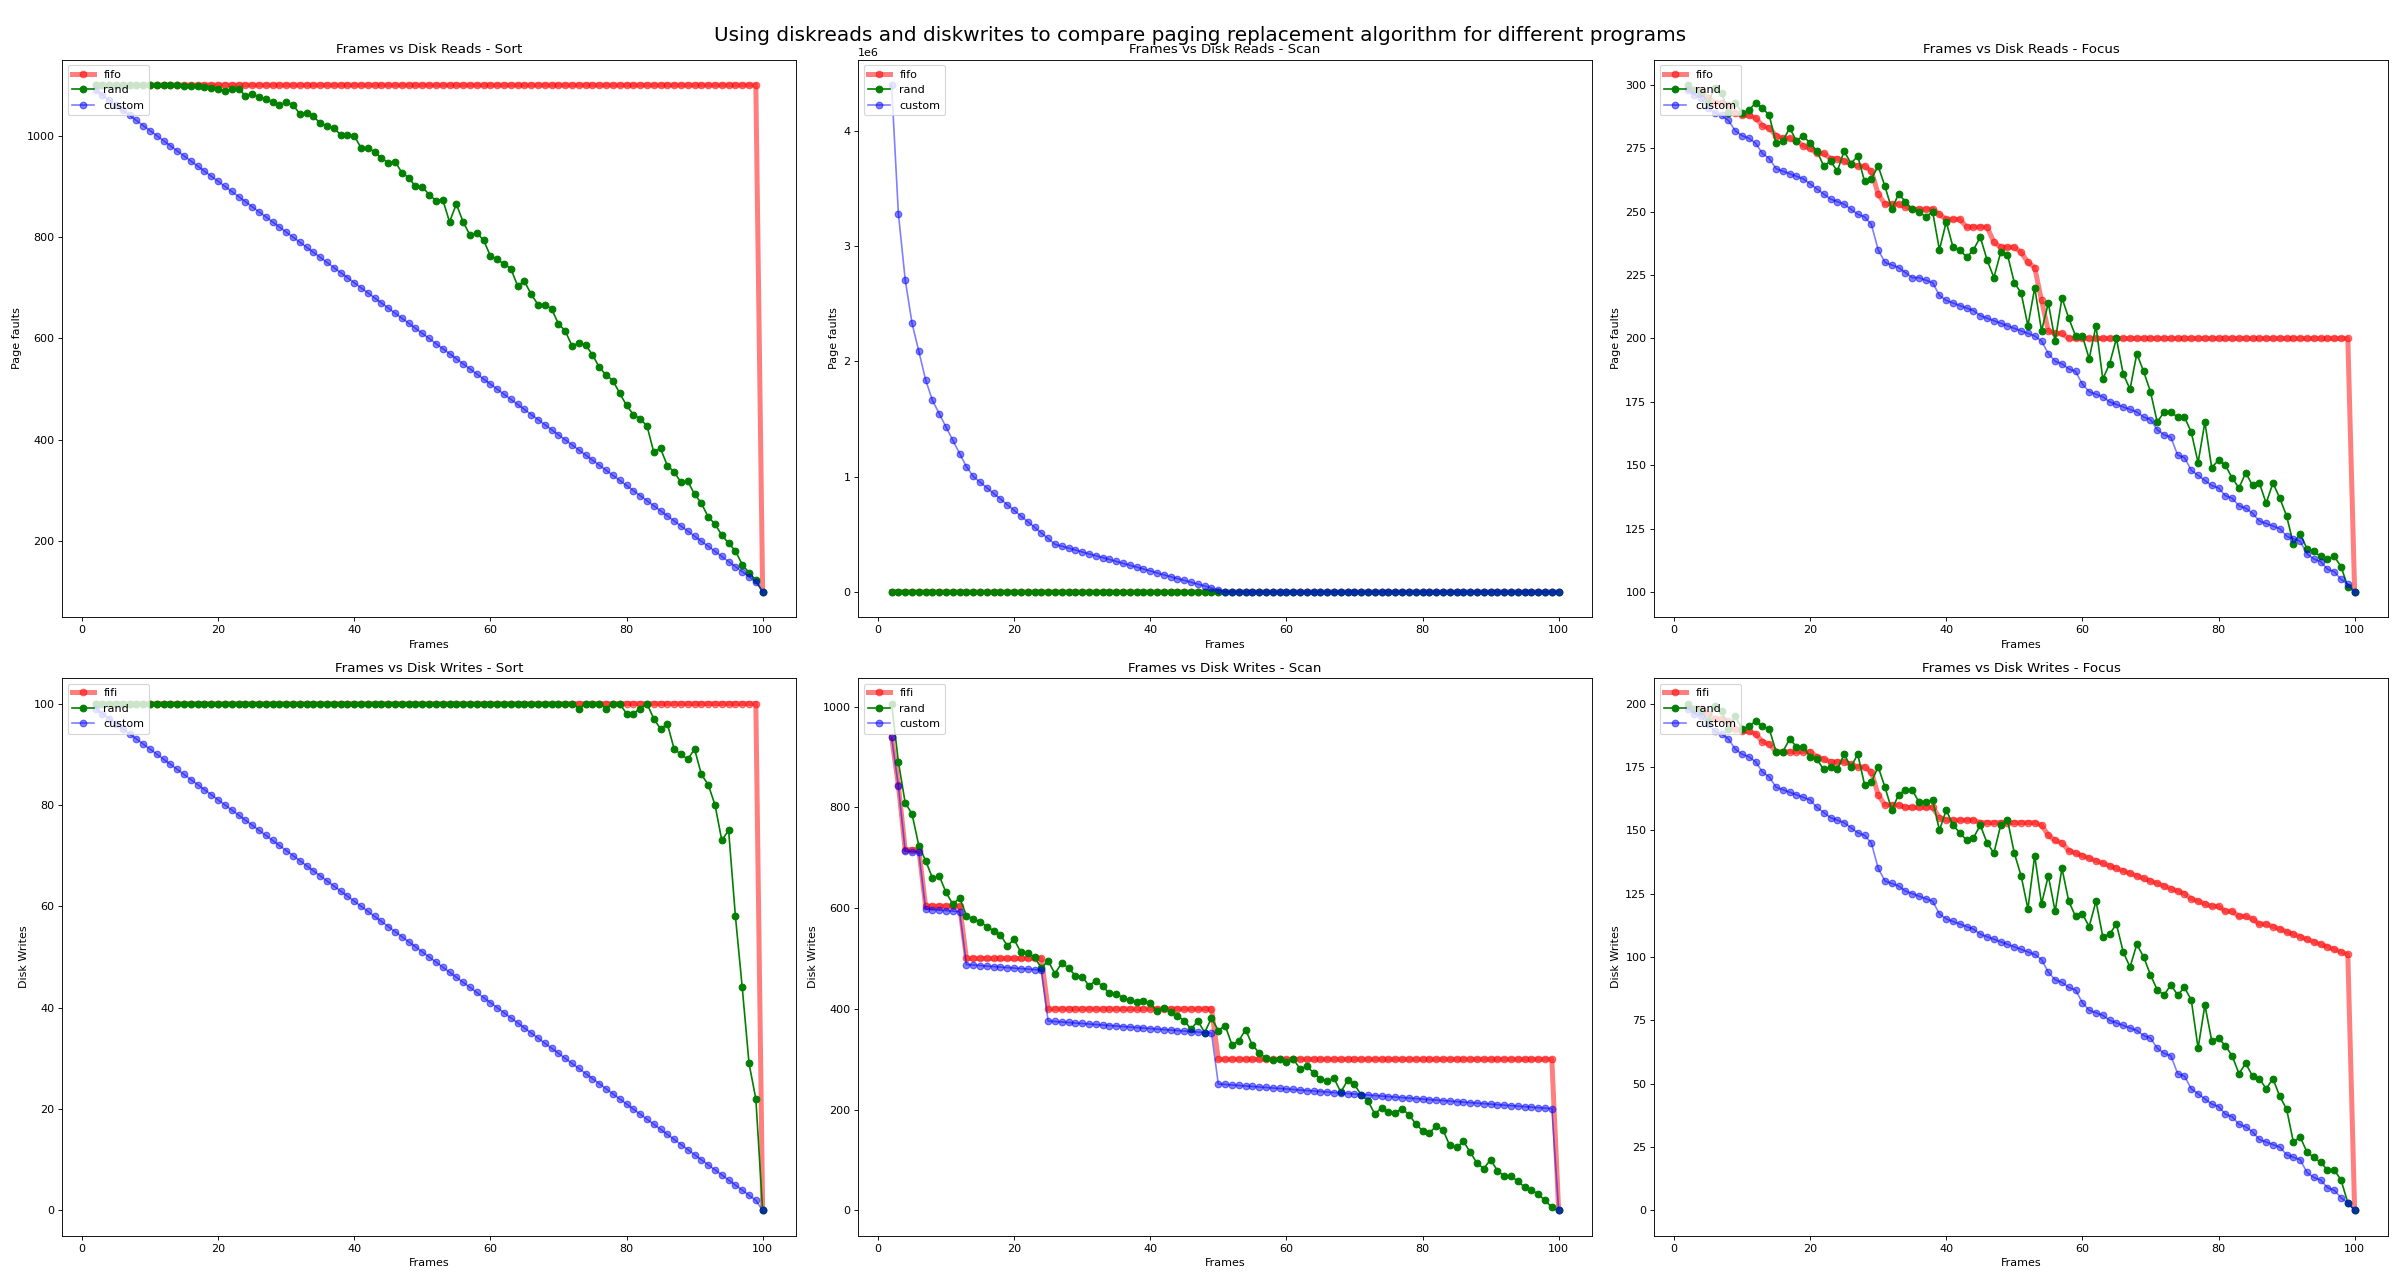
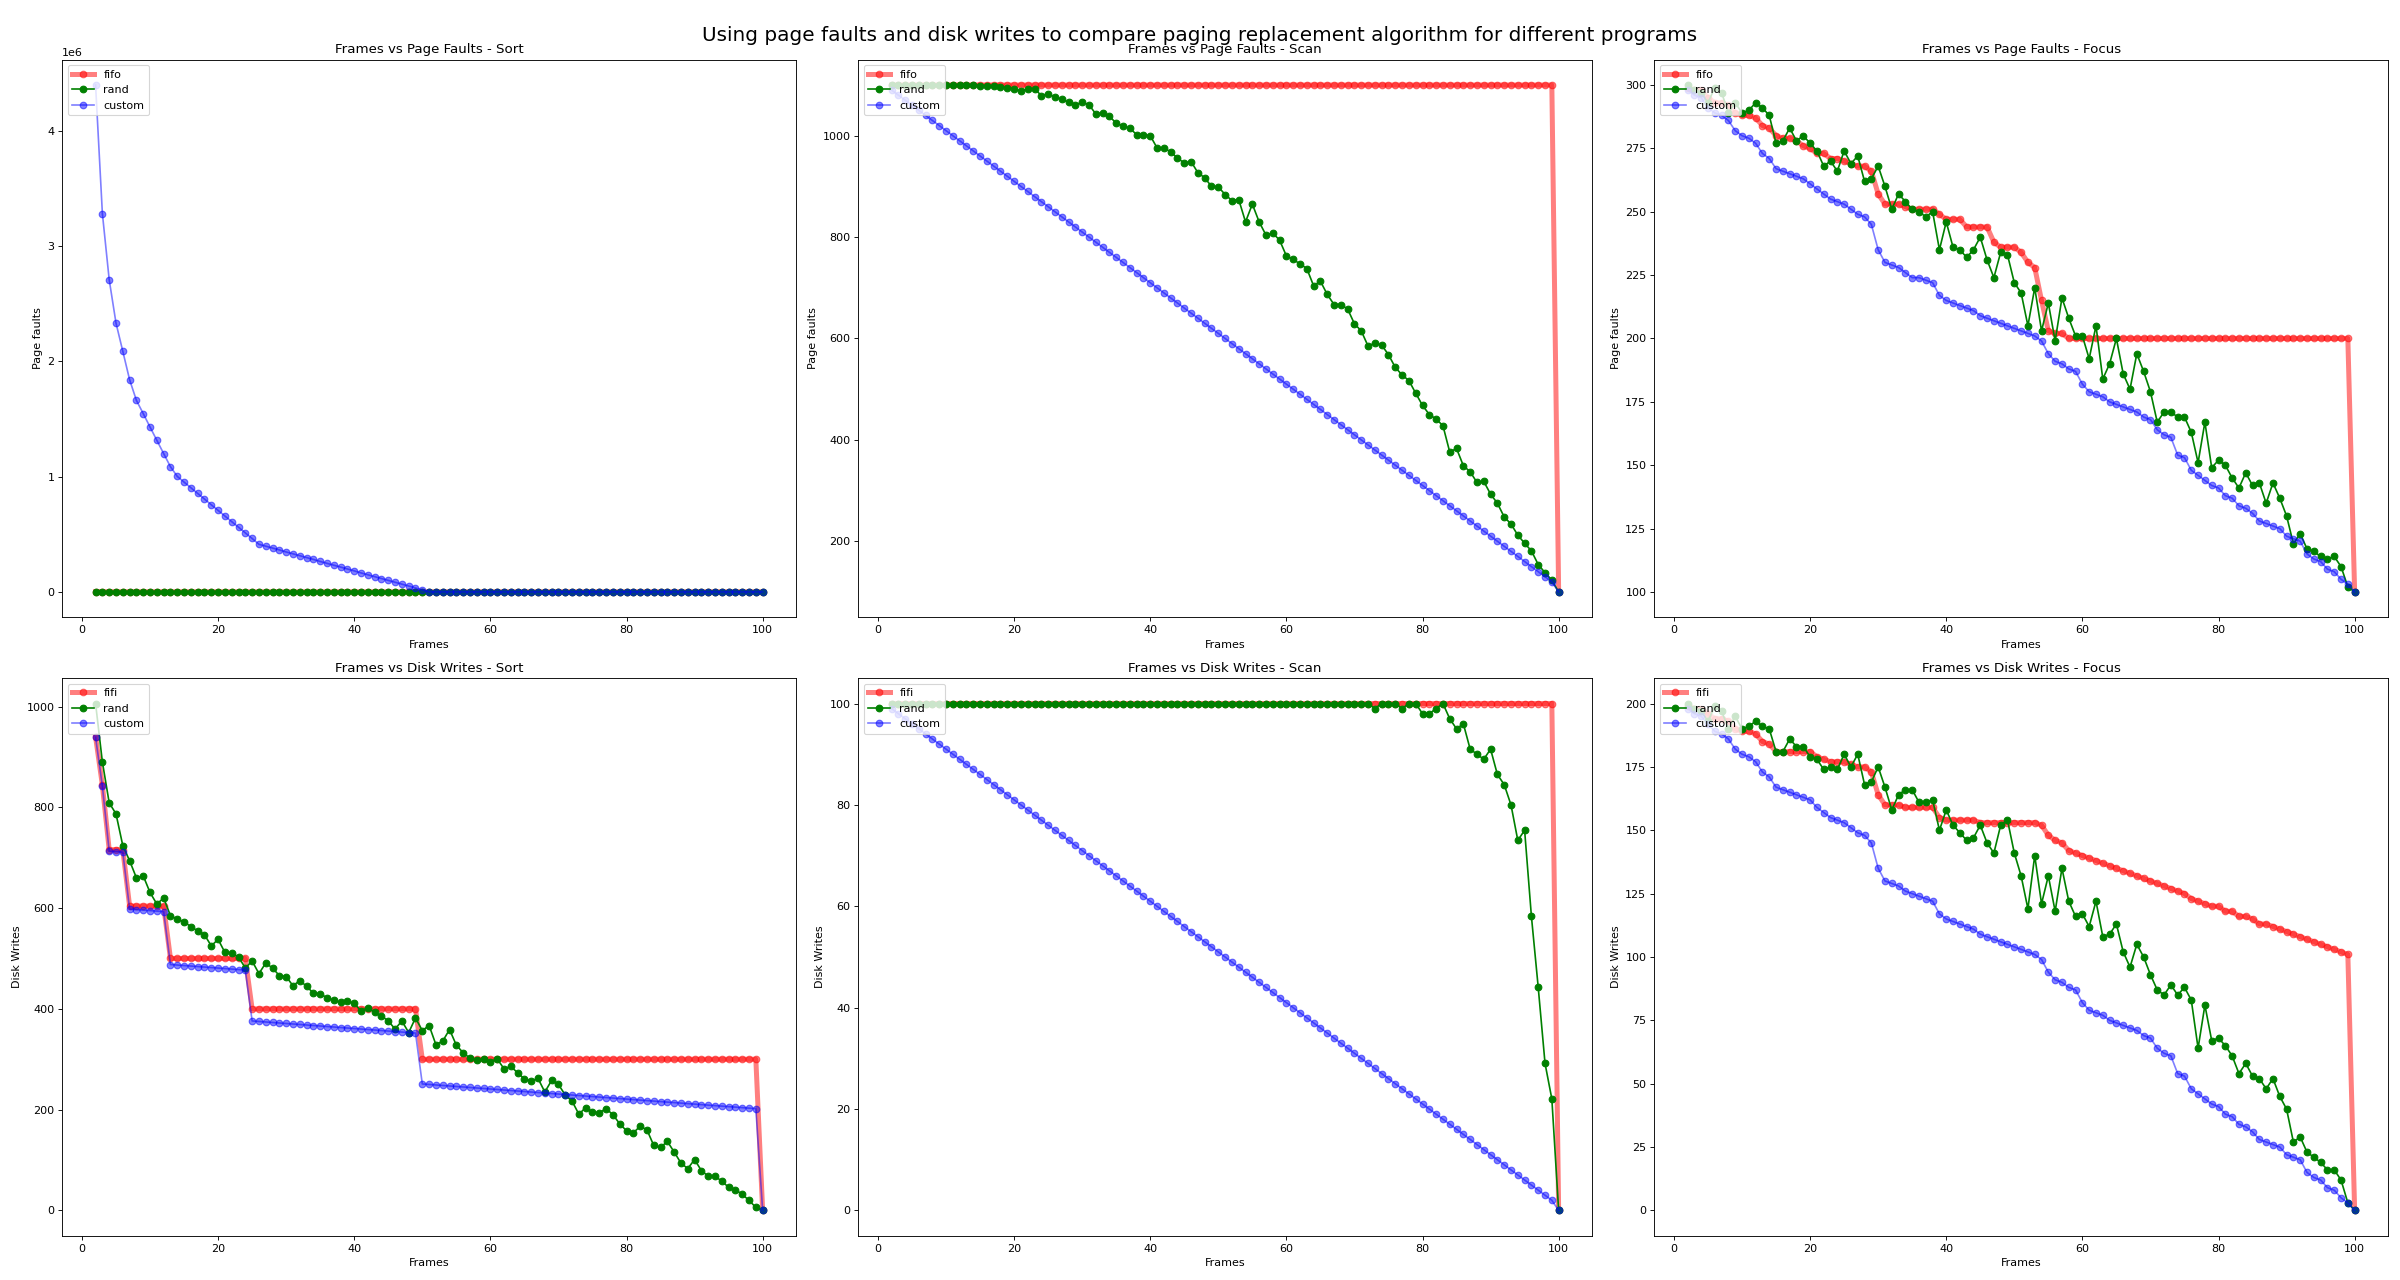
modify generate_graphs.py

diff --git a/generate_graphs.py b/generate_graphs.py
@@ -35,7 +35,7 @@ plotPics("custom-focus")
 # generate graph for algorithm comparison
 
 algo = ["fifo", "rand", "custom"]
-program = ["scan", "sort", "focus"]
+program = ["sort", "scan", "focus"]
 
 
 pf = []
@@ -66,16 +66,16 @@ for i, s in enumerate(algo):
 
 
 fig = figure(num=None, figsize=(30,16), dpi=80, facecolor='w', edgecolor='k')
-fig.suptitle('Using diskreads and diskwrites to compare paging replacement algorithm for different programs', fontsize=18)
+fig.suptitle('Using page faults and disk writes to compare paging replacement algorithm for different programs', fontsize=18)
 
 ax1 = fig.add_subplot(231)
-ax1.title.set_text('Frames vs Disk Reads - Sort')
+ax1.title.set_text('Frames vs Page Faults - Sort')
 
 ax2 = fig.add_subplot(232)
-ax2.title.set_text('Frames vs Disk Reads - Scan')
+ax2.title.set_text('Frames vs Page Faults - Scan')
 
 ax3 = fig.add_subplot(233)
-ax3.title.set_text('Frames vs Disk Reads - Focus')
+ax3.title.set_text('Frames vs Page Faults - Focus')
 
 ax4 = fig.add_subplot(234)
 ax4.title.set_text('Frames vs Disk Writes - Sort')
